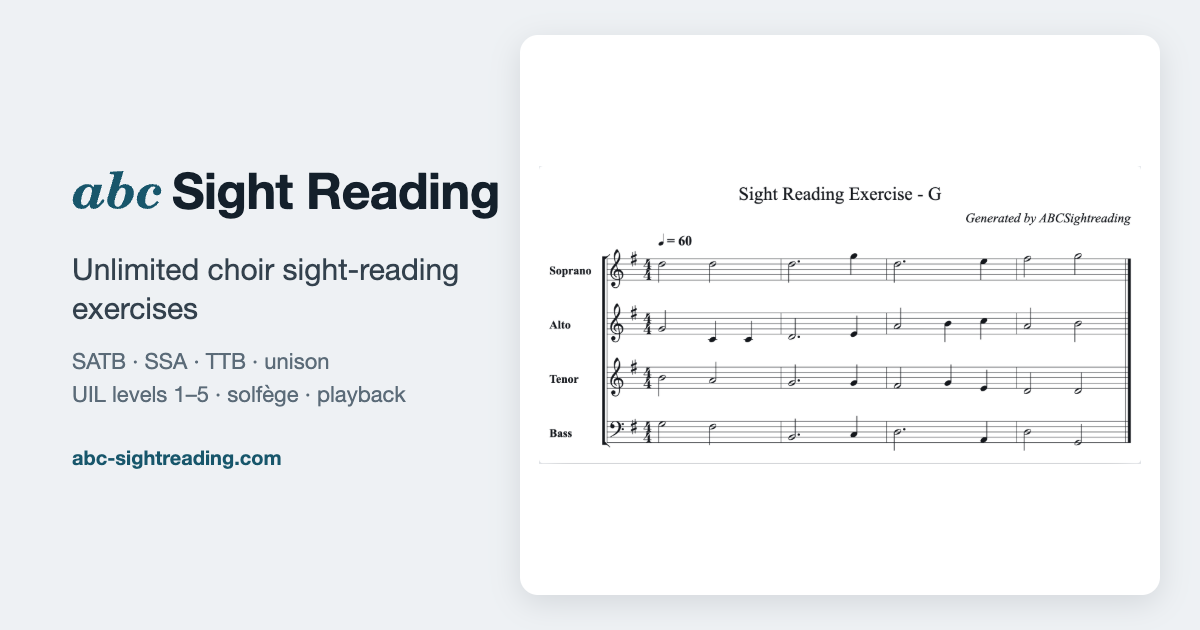
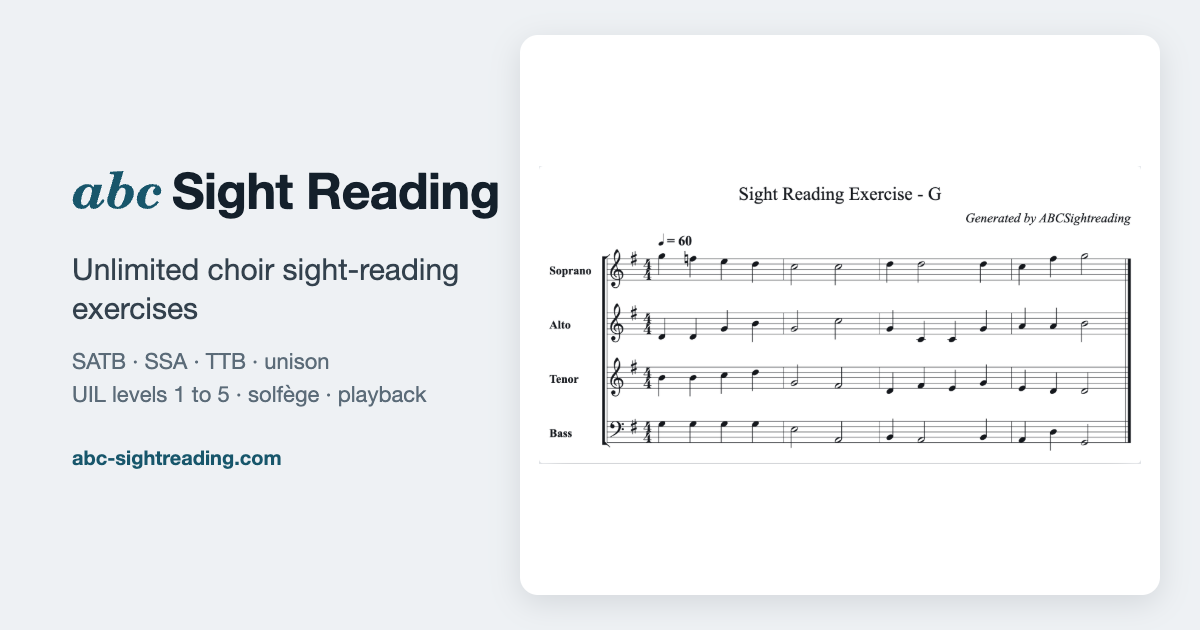
copy: a How to use page, and no dashes in the site's writing
The paragraphs under the Choral and Unison apps move to /how-to-use, linked
from the footer and listed in the sitemap: the practice pages are just the
tools again, and the guide is still there for readers and search engines.

Dashes used as punctuation are gone from the site's copy, titles, emails,
the quote PDF header, coupon names and the share image, replaced by commas,
colons, parentheses and full stops. Scores are now titled 'Sight Reading
Exercise in G'.

diff --git a/src/components/AccountPanel.svelte b/src/components/AccountPanel.svelte
@@ -41,7 +41,7 @@
       return;
     }
     if (params.get("upgraded")) {
-      notice = "Thank you - Pro is on.";
+      notice = "Thank you! Pro is on.";
       history.replaceState(null, "", "/account#plan");
     }
     try {
@@ -188,7 +188,7 @@
           {@const sub = billing.subscription}
           <p class="text-sm text-sr-muted">
             {#if sub.status === "past_due"}
-              The last payment did not go through - update the card to keep the plan.
+              The last payment did not go through. Update the card to keep the plan.
             {:else if sub.cancelAtPeriodEnd && sub.periodEnd}
               Ends {day(sub.periodEnd)}.
             {:else if sub.periodEnd}
@@ -200,7 +200,7 @@
           </div>
           {#if EDUCATOR_ON_SALE && billing.plan === "pro" && accountType !== "student"}
             <div class="rounded-md border border-sr-hairline bg-sr-raise p-3 flex flex-col gap-2">
-              <p class="text-sm text-sr-ink"><strong>Teach a choir?</strong> Educator gives your classes join codes and 100 student accounts - for students under 13 too, with no email needed. $99 a year, less what is left of your Pro year.</p>
+              <p class="text-sm text-sr-ink"><strong>Teach a choir?</strong> Educator gives your classes join codes and 100 student accounts, for students under 13 too, with no email needed. $99 a year, less what is left of your Pro year.</p>
               <button class="sr-btn text-sm self-start" on:click={() => checkout("educator")} disabled={upgrading || !billing.billingEnabled}>Upgrade to Educator</button>
               <p class="text-xs text-sr-muted">Tax-exempt school, or paying by purchase order? <a class="underline" href="#quote">Get a quote</a>.</p>
             </div>
@@ -214,17 +214,17 @@
         {/if}
       {:else}
         <p class="text-sm text-sr-ink-2">
-          <strong>Free</strong>: {GENERATION_LIMITS.free} exercises a month{used !== null ? ` - ${used} used this month` : ""}. Your saved presets follow you to any device you sign in on.
+          <strong>Free</strong>: {GENERATION_LIMITS.free} exercises a month{used !== null ? ` (${used} used this month)` : ""}. Your saved presets follow you to any device you sign in on.
         </p>
         <div class="rounded-md border border-sr-hairline bg-sr-raise p-3 flex flex-col gap-2">
-          <p class="text-sm text-sr-ink"><strong>Pro - $19.99 a year.</strong> Unlimited exercises, abcTuner, and the practice tools beside the music: tuner, metronome, drone, starting pitches.</p>
+          <p class="text-sm text-sr-ink"><strong>Pro: $19.99 a year.</strong> Unlimited exercises, abcTuner, and the practice tools beside the music: tuner, metronome, drone, starting pitches.</p>
           <button class="sr-btn text-sm self-start" on:click={() => checkout("pro")} disabled={upgrading || !billing.billingEnabled}>Get Pro</button>
         </div>
         <div class="rounded-md border border-sr-hairline bg-sr-raise p-3 flex flex-col gap-2">
           <p class="text-sm text-sr-ink">
-            <strong>Educator - $99 a year.</strong>
+            <strong>Educator: $99 a year.</strong>
             {#if !EDUCATOR_ON_SALE}<span class="ml-1 rounded bg-sr-brass-bg text-sr-brass text-xs font-semibold px-1.5 py-0.5 align-middle">Coming soon</span>{/if}
-            Everything in Pro, and your classes get join codes and 100 student accounts - for students under 13 too, with no email needed. Assign practice and see the minutes each student put in.
+            Everything in Pro, and your classes get join codes and 100 student accounts, for students under 13 too, with no email needed. Assign practice and see the minutes each student put in.
           </p>
           {#if EDUCATOR_ON_SALE}
             <button class="sr-btn text-sm self-start" on:click={() => checkout("educator")} disabled={upgrading || !billing.billingEnabled}>Get Educator</button>

diff --git a/src/components/SchoolQuote.svelte b/src/components/SchoolQuote.svelte
@@ -63,7 +63,7 @@
       const q: Quote = await call("/api/quotes", { method: "POST", body: JSON.stringify(form) });
       quotes = [q, ...quotes];
       open = false;
-      notice = `Quote ${q.number} is ready - download it below. A copy is on its way to your email.`;
+      notice = `Quote ${q.number} is ready. Download it below; a copy is on its way to your email.`;
     } catch (e) {
       problem = e instanceof Error ? e.message : "Could not make the quote.";
     }
@@ -147,7 +147,7 @@
   {:else}
     <form class="flex flex-col gap-3" on:submit|preventDefault={requestQuote}>
       <label class="text-sm text-sr-ink-2 flex flex-col gap-1">School <input class={input} bind:value={form.school} required /></label>
-      <label class="text-sm text-sr-ink-2 flex flex-col gap-1">District <span class="text-xs text-sr-faint">if the district pays - the quote is made out to it</span><input class={input} bind:value={form.district} placeholder="Springfield ISD" /></label>
+      <label class="text-sm text-sr-ink-2 flex flex-col gap-1">District <span class="text-xs text-sr-faint">if the district pays, the quote is made out to it</span><input class={input} bind:value={form.district} placeholder="Springfield ISD" /></label>
       <label class="text-sm text-sr-ink-2 flex flex-col gap-1">Purchasing contact <input class={input} bind:value={form.contactName} required placeholder="Name" /></label>
       <label class="text-sm text-sr-ink-2 flex flex-col gap-1">Their email <span class="text-xs text-sr-faint">the invoice goes here</span><input class={input} type="email" bind:value={form.contactEmail} required /></label>
       <fieldset class="flex flex-col gap-2">
@@ -164,7 +164,7 @@
         Extra seats
         <select class="rounded border border-sr-hairline bg-sr-panel text-sr-ink text-sm px-1 py-1" bind:value={form.packs}>
           {#each Array.from({ length: Math.min(MAX_PACKS, 20) + 1 }, (_, i) => i) as n}
-            <option value={n}>{n === 0 ? "none - 100 students" : `+${n * 25} - ${100 + n * 25} students`}</option>
+            <option value={n}>{n === 0 ? "none (100 students)" : `+${n * 25} (${100 + n * 25} students)`}</option>
           {/each}
         </select>
       </label>

diff --git a/src/components/EducatorStudents.svelte b/src/components/EducatorStudents.svelte
@@ -60,7 +60,7 @@
   onMount(() => {
     loadSaved().catch(() => {});
     if (new URLSearchParams(location.search).get("seats") === "added") {
-      notice = "Thank you - the seats are added. They count for a year.";
+      notice = "Thank you! The seats are added, and they count for a year.";
       history.replaceState(null, "", "/account#students");
     }
     load();
@@ -107,7 +107,7 @@
       return;
     }
     cards = data.created.map((c: { name: string; username: string; password: string }) => ({ ...c, className: cls.name, joinCode: data.joinCode }));
-    notice = `Added ${data.created.length} student${data.created.length === 1 ? "" : "s"} to ${cls.name}. Print their login cards now - the passwords are not shown again.`;
+    notice = `Added ${data.created.length} student${data.created.length === 1 ? "" : "s"} to ${cls.name}. Print their login cards now: the passwords are not shown again.`;
     rosterText = "";
     addingTo = null;
     await load();
@@ -234,7 +234,7 @@
             </label>
             {#if parsed.students.length || parsed.errors.length}
               <p class="text-sm text-sr-ink-2">
-                {parsed.students.length} student{parsed.students.length === 1 ? "" : "s"}{parsed.students.length > seats.left ? ` - only ${seats.left} seats left` : ""}.
+                {parsed.students.length} student{parsed.students.length === 1 ? "" : "s"}{parsed.students.length > seats.left ? `, but only ${seats.left} seats left` : ""}.
                 {#each parsed.errors as e}<span class="block text-xs text-sr-brass">{e}</span>{/each}
               </p>
             {/if}

diff --git a/src/lib/server/quotes.ts b/src/lib/server/quotes.ts
@@ -85,7 +85,7 @@ export async function createSchoolQuote(user: { id: string; name: string; email:
     invoice_settings: { days_until_due: 30 },
     automatic_tax: { enabled: await taxReady() },
     expires_at: Math.floor(Date.now() / 1000) + QUOTE_DAYS * 86_400,
-    header: "abc Sight Reading - Educator plan",
+    header: "abc Sight Reading: Educator plan",
     description:
       `For ${req.school}${req.district ? `, ${req.district}` : ""}. Attention: ${req.contactName}.\n` +
       `Account holder: ${user.name} (${user.email}).\n` +
@@ -205,7 +205,7 @@ export async function acceptSchoolQuote(user: { id: string; name: string; email:
   if (owner) {
     await sendAccountEmail(
       owner,
-      `PO ${poNumber}: ${row.school} - Educator (${row.number})`,
+      `PO ${poNumber}: ${row.school}, Educator (${row.number})`,
       [
         `${user.name} (${user.email}) entered PO ${poNumber} for quote ${row.number}.`,
         `School: ${row.school}. Invoice to: ${row.contactEmail}. ${dollars(row.amountTotal)}${row.taxExempt ? ", tax-exempt - file their certificate" : ""}.`,

diff --git a/src/components/AdminPanel.svelte b/src/components/AdminPanel.svelte
@@ -73,7 +73,7 @@
   <section class="bg-sr-panel border border-sr-hairline rounded-lg p-6 flex flex-col gap-4">
     <div>
       <h2 class="text-lg font-semibold text-sr-ink">Access codes</h2>
-      <p class="text-sm text-sr-muted">A plan free for a number of days from the day it's used - no card. Send the link; it signs them in or up, then applies the code.</p>
+      <p class="text-sm text-sr-muted">A plan free for a number of days from the day it's used, with no card. Send the link; it signs them in or up, then applies the code.</p>
     </div>
     {#each codes as c (c.id)}
       <div class="rounded-md border border-sr-hairline bg-sr-raise p-3 text-sm flex flex-col gap-1">

diff --git a/src/components/GenerationLimit.svelte b/src/components/GenerationLimit.svelte
@@ -27,7 +27,7 @@
         <p><a class="underline font-medium text-sr-action-fg" href={signupHref}>Create a free account</a></p>
       {:else}
         <p class="font-semibold text-sr-ink">That's this month's {GENERATION_LIMITS.free} exercises.</p>
-        <p>Pro is unlimited, with the tuner and practice tools, for $19.99 a year. Or wait for the 1st - the count starts again each month.</p>
+        <p>Pro is unlimited, with the tuner and practice tools, for $19.99 a year. Or wait for the 1st, when the count starts again.</p>
         <p><a class="underline font-medium text-sr-action-fg" href={upgradeHref}>Get Pro</a></p>
       {/if}
     </div>

diff --git a/src/components/StudentAssignments.svelte b/src/components/StudentAssignments.svelte
@@ -31,7 +31,7 @@
   <section class="w-full max-w-md bg-sr-panel border border-sr-hairline rounded-lg p-6 flex flex-col gap-3">
     <h2 class="text-lg font-semibold text-sr-ink">Assignments</h2>
     {#if !items.length}
-      <p class="text-sm text-sr-muted">Nothing assigned yet. Your practice time still counts - your teacher can see it.</p>
+      <p class="text-sm text-sr-muted">Nothing assigned yet. Your practice time still counts, and your teacher can see it.</p>
     {/if}
     {#each todo as a (a.id)}
       <a href={assignmentHref(a)} class="block rounded-md border border-sr-hairline bg-sr-raise p-3 hover:border-sr-action no-underline">

diff --git a/src/components/tools/ToolsWheel.svelte b/src/components/tools/ToolsWheel.svelte
@@ -129,8 +129,8 @@
         {#if allowed === false}
           <h3 class="text-[15px] font-semibold">{current?.label}</h3>
           <p class="text-sm text-sr-ink-2">
-            The practice tools - tuner, metronome, drone, starting pitches,
-            analysis and timer - are part of Pro, with unlimited exercises, for $19.99 a year.
+            The practice tools (tuner, metronome, drone, starting pitches,
+            analysis and timer) are part of Pro, with unlimited exercises, for $19.99 a year.
           </p>
           {#if signedIn}
             <a class="sr-btn text-sm text-center" href="/account#plan">Get Pro</a>

diff --git a/src/components/AssignmentBanner.svelte b/src/components/AssignmentBanner.svelte
@@ -28,7 +28,7 @@
   {/if}
   {#if assignment.note}<p class="text-sm text-sr-ink-2">{assignment.note}</p>{/if}
   <p class="text-xs text-sr-muted">
-    {#if percent >= 100}Done - keep going if you like.{:else}Time counts while you're practising here.{/if}
+    {#if percent >= 100}Done! Keep going if you like.{:else}Time counts while you're practising here.{/if}
     {#if assignment.dueAt}Due {day(assignment.dueAt)}.{/if}
     The settings are the assignment's. <a class="underline" href={leave}>Leave the assignment</a>
   </p>

diff --git a/src/lib/generateChoral.ts b/src/lib/generateChoral.ts
@@ -512,7 +512,7 @@ function generateChoralExerciseOnce(params: GenerateChoralParams): ChoralExercis
   // 6. Assemble ABC Notation String
   console.log("6. Assembling ABC String...");
   const abcParams = {
-    title: params.title || `Sight Reading Exercise - ${key}`,
+    title: params.title || `Sight Reading Exercise in ${key}`,
     composer: params.composer || "Generated by ABCSightreading",
     // meter: timeSig.name, // Removed, passed separately
     // defaultLength: "1/32", // Removed, handled in assembleAbcString

diff --git a/src/components/ClassAssignments.svelte b/src/components/ClassAssignments.svelte
@@ -145,7 +145,7 @@
         <select class={input} bind:value={form.presetKey} required>
           <option value="" disabled>Choose…</option>
           {#each ladderStages() as stage}
-            <optgroup label="Step by step - {stage.stage}">
+            <optgroup label="Step by step: {stage.stage}">
               {#each stage.steps as step}<option value={presetKeyOf.step(step.id)}>{step.number}. {step.title}</option>{/each}
             </optgroup>
           {/each}

diff --git a/src/lib/server/codes.ts b/src/lib/server/codes.ts
@@ -54,7 +54,7 @@ export async function createAffiliate(a: { name: string; code: string; percentOf
   const coupon = await stripe.coupons.create({
     percent_off: a.percentOff,
     duration: "once",
-    name: `${a.code} - ${a.percentOff}% off the first year`,
+    name: `${a.code}: ${a.percentOff}% off the first year`,
     metadata: { kind: "affiliate", affiliate: a.name },
   });
   const promotion = await stripe.promotionCodes.create({
